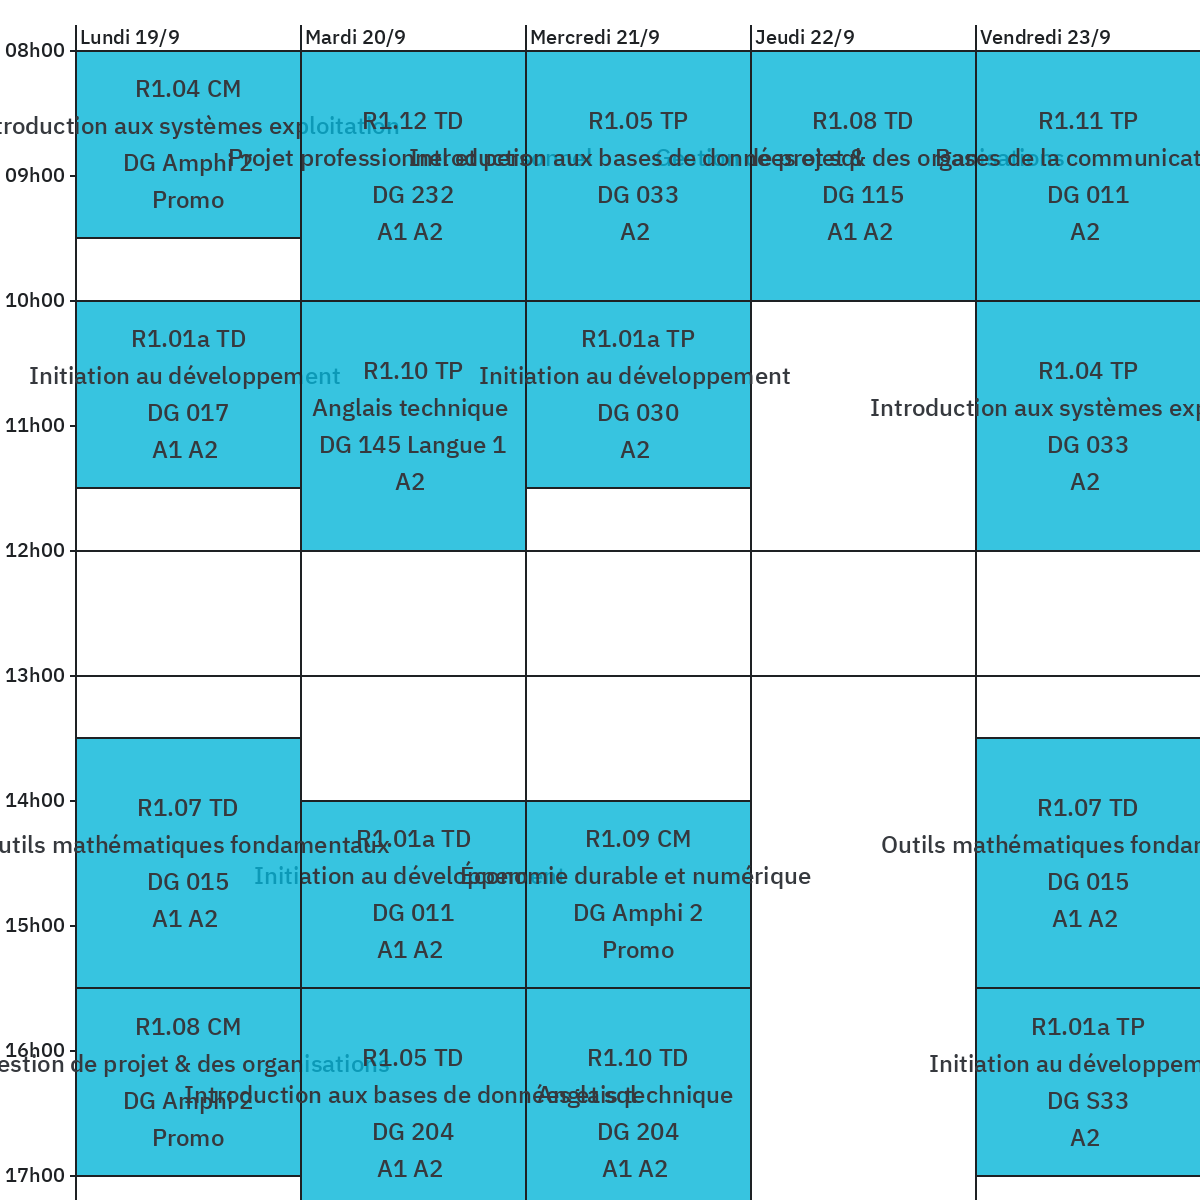
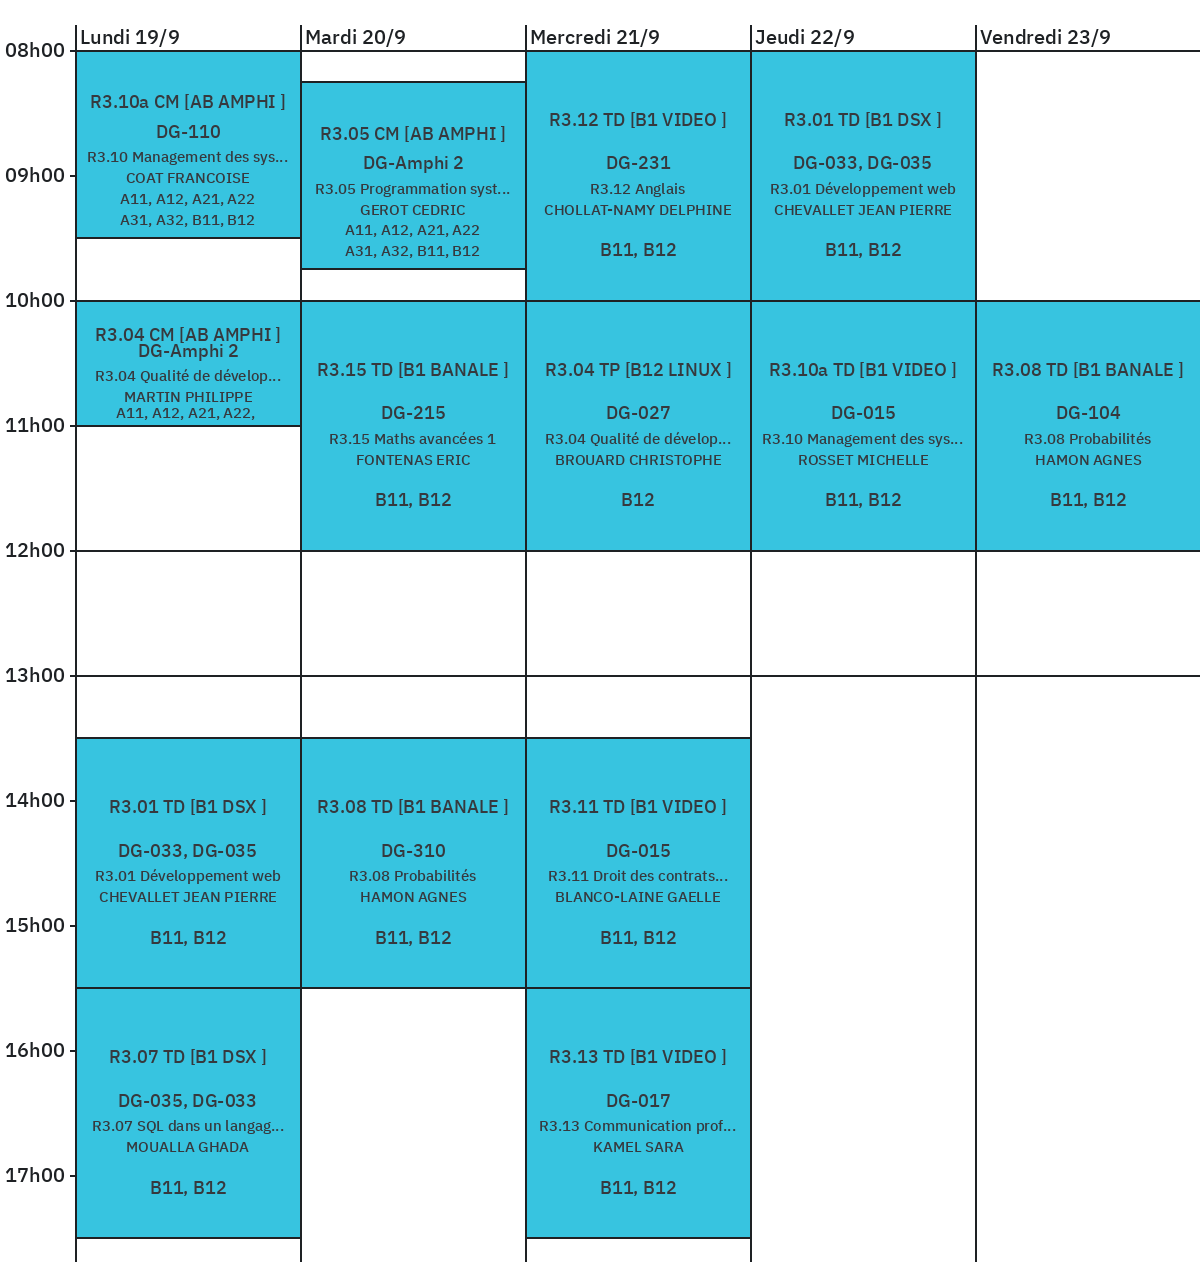
Successfully changed agenda generation

diff --git a/IUT2_Discord_Bot/edt/edt_utils.py b/IUT2_Discord_Bot/edt/edt_utils.py
@@ -1,3 +1,5 @@
+import datetime
+
 # dictionnaires contenant les groupes et leur identifiant de "resources" dans l'url de ADE
 # chaque identifiant désigne un emploi du temps
 id_edt_groupe = {
@@ -28,25 +30,25 @@ id_edt_groupe = {
 }
 # dictionnaire des identifiants des rôles associés à des identifiants d'emploi du temps de groupe TP
 id_edt_role = {
-    994193894038327306: 'BUT1 A1',
-    994193958924202025: 'BUT1 A2',
-    994194055443517470: 'BUT1 B1',
-    994194085009182730: 'BUT1 B2',
-    994194108748931183: 'BUT1 C1',
-    994194139954544661: 'BUT1 C2',
-    994196538022711307: 'BUT1 D1',
-    994196567252795503: 'BUT1 D2',
-    1014167472867397722: 'BUT1 E1',
-    1014167522364366949: 'BUT1 E2',
+    994193894038327306: id_edt_groupe['BUT1 A1'],
+    994193958924202025: id_edt_groupe['BUT1 A2'],
+    994194055443517470: id_edt_groupe['BUT1 B1'],
+    994194085009182730: id_edt_groupe['BUT1 B2'],
+    994194108748931183: id_edt_groupe['BUT1 C1'],
+    994194139954544661: id_edt_groupe['BUT1 C2'],
+    994196538022711307: id_edt_groupe['BUT1 D1'],
+    994196567252795503: id_edt_groupe['BUT1 D2'],
+    1014167472867397722: id_edt_groupe['BUT1 E1'],
+    1014167522364366949: id_edt_groupe['BUT1 E2'],
 
-    1005431453800218664: 'BUT2 A11',
-    1005431520384794636: 'BUT2 A12',
-    1005431589787934744: 'BUT2 A21',
-    1005431617038327808: 'BUT2 A22',
-    1005431639050047508: 'BUT2 A31',
-    1005431663569940570: 'BUT2 A32',
-    1005431187961036800: 'BUT2 B11',
-    1005431249885732924: 'BUT2 B12'
+    1005431453800218664: id_edt_groupe['BUT2 A11'],
+    1005431520384794636: id_edt_groupe['BUT2 A12'],
+    1005431589787934744: id_edt_groupe['BUT2 A21'],
+    1005431617038327808: id_edt_groupe['BUT2 A22'],
+    1005431639050047508: id_edt_groupe['BUT2 A31'],
+    1005431663569940570: id_edt_groupe['BUT2 A32'],
+    1005431187961036800: id_edt_groupe['BUT2 B11'],
+    1005431249885732924: id_edt_groupe['BUT2 B12']
 }
 # liste des groupes existants
 liste_groupes = list(id_edt_groupe.keys())
@@ -61,6 +63,32 @@ def auto_select_edt(liste_roles):
     """
     for role in liste_roles:
         if role.id in list(id_edt_role.keys()):
-            return id_edt_groupe[id_edt_role[role.id]]
+            return id_edt_role[role.id]
     # si aucun rôle de l'utilisateur n'est dans la liste de rôles associés à des emplois du temps
     raise ValueError
+
+
+def select_current_semaine() -> datetime.date:
+    """Sélectionner le premier jour de la semaine de travail dans laquelle on se trouve. Si on est en week-end, récupération du premier jour de la semaine suivante.
+
+    :return: le premier d'une semaine de travail
+    """
+    # récupération du premier jour de la semaine actuelle
+    deb_sem = datetime.date.today() - datetime.timedelta(datetime.date.today().weekday())
+
+    # si l'on est en week-end, ajout de 7 jours
+    if datetime.date.today().weekday() > 4:
+        deb_sem = deb_sem + datetime.timedelta(7)
+
+    return deb_sem
+
+
+def select_semaine(nb_sem_decale: int) -> datetime.date:
+    """Sélectionner la semaine voulue à partir de la semaine de travail actuelle. On décalle de nb_sem_decale semaines la semaine sélectionnée.
+
+    :param nb_sem_decale: le nombre de semaines de décallage
+    :return: la semaine voulue
+    """
+    sem_select = select_current_semaine() + datetime.timedelta(7 * nb_sem_decale)
+
+    return sem_select

diff --git a/IUT2_Discord_Bot/edt/get_agenda.py b/IUT2_Discord_Bot/edt/get_agenda.py
@@ -1,0 +1,45 @@
+import requests
+import datetime
+import ics
+
+from IUT2_Discord_Bot.edt.edt_utils import select_semaine
+from IUT2_Discord_Bot.edt.draw_agenda import draw_edt
+
+
+def load_edt(resource: int, first_date: datetime.date):
+    """Récupérer un emploi du temps ADE (d'une semaine) sous format iCal.
+
+    :param resource: l'identifiant "resources" d'ADE
+    :param first_date: le jour de début de semaine
+    """
+
+    # dictionnaire des paramètres de la requête récupérant le calendrier iCal. On utilise les paramètres de la fonction
+    param_requete = {
+        "resources": resource,
+        "firstDate": first_date,
+        "lastDate": first_date + datetime.timedelta(4)
+    }
+
+    # requête récupérant le calendrier iCal, passage du dictionnaire param_requete en paramètres de l'URL
+    r = requests.get(
+        "https://ade-uga-ro-vs.grenet.fr/jsp/custom/modules/plannings/anonymous_cal.jsp?projectId=5&calType=ical",
+        params=param_requete)
+
+    # renvoit du calendrier iCal
+    return ics.icalendar.Calendar(r.text)
+
+
+def generate_agenda(resource: int, sem_decal: int):
+    """
+    Générer l'image d'un agenda et la sauver.
+
+    :param resource: l'identifiant "resources" d'ADE
+    :param sem_decal: le décalage de semaine à partir de celle actuelle
+    """
+
+    ical_agenda = load_edt(resource, select_semaine(sem_decal))
+
+    current_agenda = draw_edt(ical=ical_agenda)
+
+    current_agenda.save("edt/agenda.png")
+

diff --git a/IUT2_Discord_Bot/edt/draw_agenda.py b/IUT2_Discord_Bot/edt/draw_agenda.py
@@ -35,8 +35,8 @@ def draw_event(agenda_picture, event: ics.icalendar.Event) -> None:
     d = ImageDraw.Draw(agenda_picture, "RGB")
 
     # initialisation police
-    title_font = ImageFont.truetype("fonts/IBM_Plex_Sans_Arabic/IBMPlexSansArabic-Medium.ttf", 18)
-    text_font = ImageFont.truetype("fonts/IBM_Plex_Sans_Arabic/IBMPlexSansArabic-Medium.ttf", 15)
+    title_font = ImageFont.truetype("edt/fonts/IBM_Plex_Sans_Arabic/IBMPlexSansArabic-Medium.ttf", 18)
+    text_font = ImageFont.truetype("edt/fonts/IBM_Plex_Sans_Arabic/IBMPlexSansArabic-Medium.ttf", 15)
 
     # détermination des coordonnées du cours grâce à la valeur du jour de la semaine, de l'heure du cours et de la durée
 
@@ -159,7 +159,7 @@ def draw_edt(ical: ics.icalendar.Calendar) -> Image:
     d = ImageDraw.Draw(agenda_picture, "RGB")
 
     # initialisation police
-    myFont = ImageFont.truetype("fonts/IBM_Plex_Sans_Arabic/IBMPlexSansArabic-Medium.ttf", 20)
+    myFont = ImageFont.truetype("edt/fonts/IBM_Plex_Sans_Arabic/IBMPlexSansArabic-Medium.ttf", 20)
 
     # cadre : ligne verticale à gauche et ligne horizontale en haut
     d.line([75, 50, size_x, 50], fill=CADRE_COLOR, width=2)

diff --git a/IUT2_Discord_Bot/commands/edt.py b/IUT2_Discord_Bot/commands/edt.py
@@ -2,8 +2,8 @@ import datetime
 import hikari
 import lightbulb
 
+from IUT2_Discord_Bot.edt.get_agenda import generate_agenda, select_semaine
 from IUT2_Discord_Bot.edt.edt_utils import auto_select_edt, liste_groupes, id_edt_groupe
-from IUT2_Discord_Bot.edt.get_edt import generate_agenda, select_semaine
 
 
 @lightbulb.option("groupe", "Le groupe dont il faut récupérer l'emploi du temps", choices=liste_groupes, type=str, default="", required=False)
@@ -50,7 +50,7 @@ async def edt(ctx: lightbulb.context.SlashContext) -> None:
             title="Emploi du temps",
             color=hikari.Color.of((33, 186, 217))
         )
-        .add_field("Groupe", str(ctx.options.groupe), inline=True)
+        .add_field("Groupe", " ".join(g for g in id_edt_groupe.keys() if id_edt_groupe[g] == id_groupe_tp), inline=True)
         .add_field("Semaine", "Du " + str(select_semaine(ctx.options.semaine).strftime("%d-%m-%Y")) + " au " + str((select_semaine((ctx.options.semaine)) + datetime.timedelta(4)).strftime("%d-%m-%Y")), inline=True)
         .set_image("edt/agenda.png")
     )
